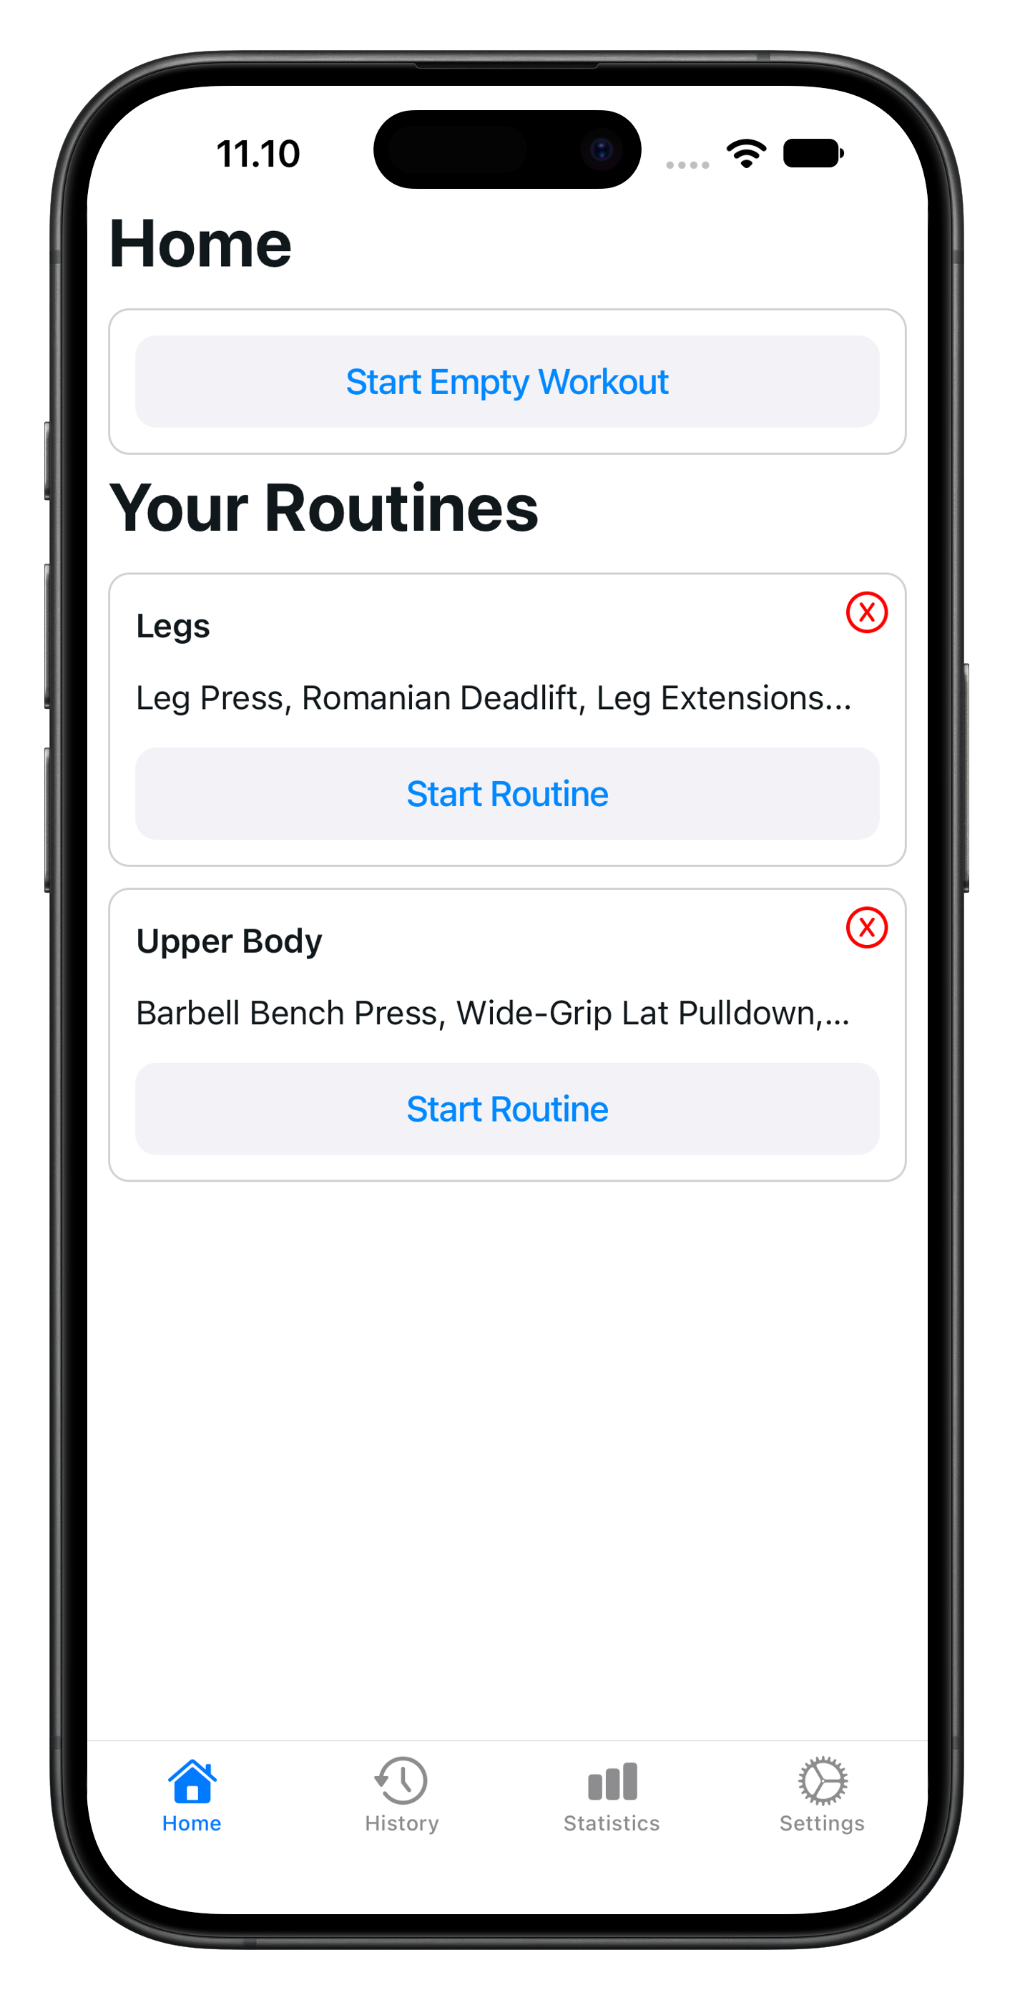
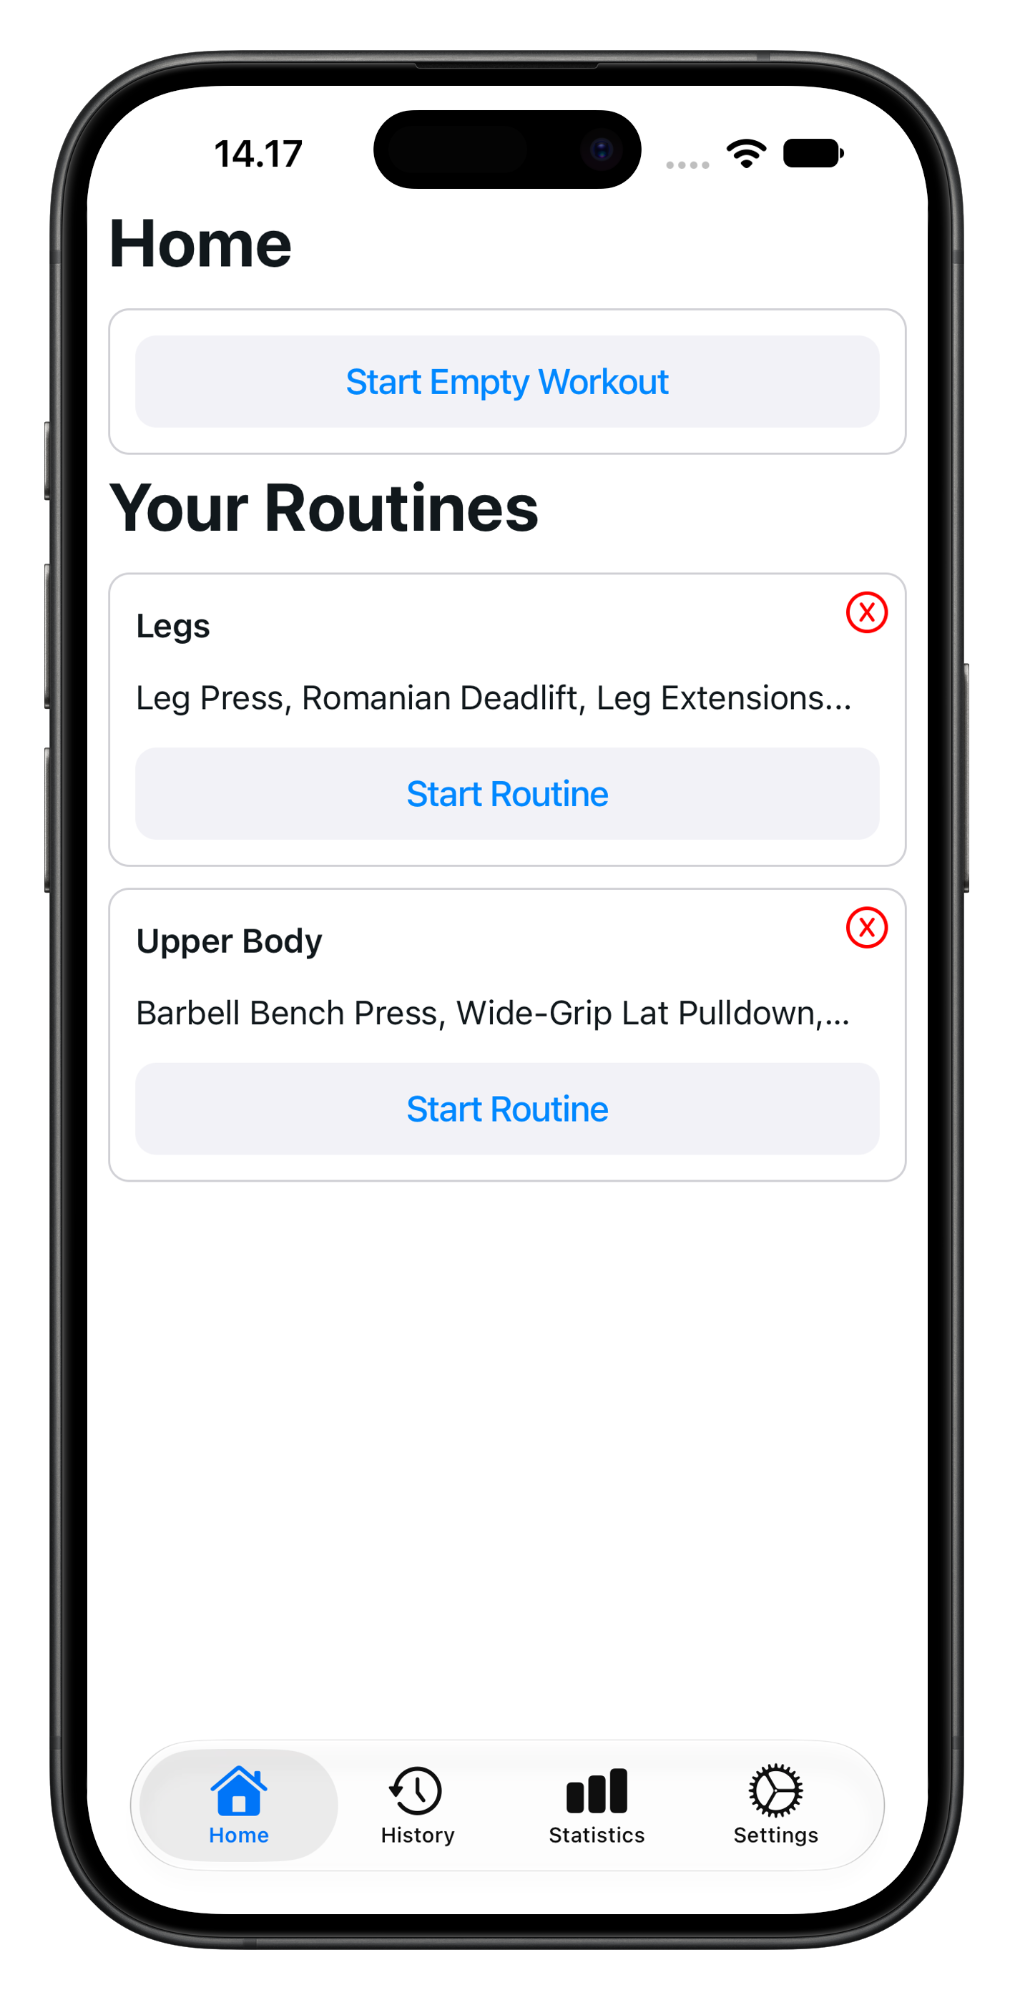
Update README screenshots with new floating tab bar

diff --git a/README.md b/README.md
@@ -10,7 +10,7 @@ An iOS-first workout tracker built with React Native and Expo. Create reusable r
 
 |                                                       Statistics                                                        |                                                     Exercise progress                                                      |                                                     Settings                                                      |
 | :---------------------------------------------------------------------------------------------------------------------: | :------------------------------------------------------------------------------------------------------------------------: | :---------------------------------------------------------------------------------------------------------------: |
-| <img src="images/Statistics_iphone-18-pro.png" alt="Statistics page with workout totals and exercises" width="260" /> | <img src="images/Progress_chart_iphone-18-pro.png" alt="Exercise progress chart showing heaviest weight over time" width="260" /> | <img src="images/Settings_iphone-17-pro.png" alt="Settings screen with appearance, weight unit, and default rest timer options" width="260" /> |
+| <img src="images/Statistics_iphone-18-pro.png" alt="Statistics page with workout totals and exercises" width="260" /> | <img src="images/Progress_chart_iphone-18-pro.png" alt="Exercise progress chart showing heaviest weight over time" width="260" /> | <img src="images/Settings_iphone-18-pro.png" alt="Settings screen with appearance, weight unit, and default rest timer options" width="260" /> |
 
 ## Features
 
